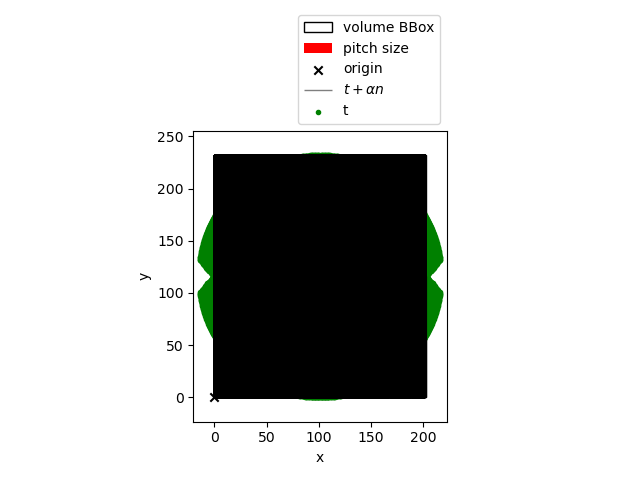
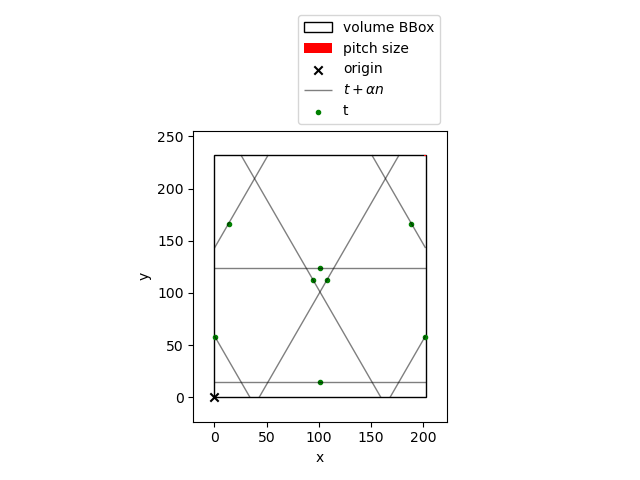
[xray] try different pitch?

Changed region(s): [[0.3125, 0.3125, 0.7188, 0.8438]]

diff --git a/src/pyxu/experimental/xray/3dtests/bhatt_method_weighted_interpolated/bhatt_3d_weighted_interpolated.py b/src/pyxu/experimental/xray/3dtests/bhatt_method_weighted_interpolated/bhatt_3d_weighted_interpolated.py
@@ -143,10 +143,10 @@ cylinder_min_height = 0
 assert cylinder_inner_radius < cylinder_outer_radius
 
 origin = 0
-vox_side = 13.7e-5
+vox_side = 13.7e-6
 max_height = cylinder_max_height
 max_offset = cylinder_outer_radius / 10
-pitch = vox_side * np.array([1.0, 1.0, 1.0])
+pitch = vox_side * np.array([1.0, 1.0, 10])
 
 print("Creating rays...")
 num_heights = slm_pixels_height // bin_size
@@ -205,8 +205,8 @@ unweighted_xrt = xray.RayXRT(
 )
 
 print("Diagnostic plot...")
-# fig = unweighted_xrt.diagnostic_plot()
-# fig.savefig("./diag.png")
+fig = unweighted_xrt.diagnostic_plot()
+fig.savefig("./diag.png")
 
 bhatt = ReconstructionTechnique(
     ground_truth=ground_truth,
